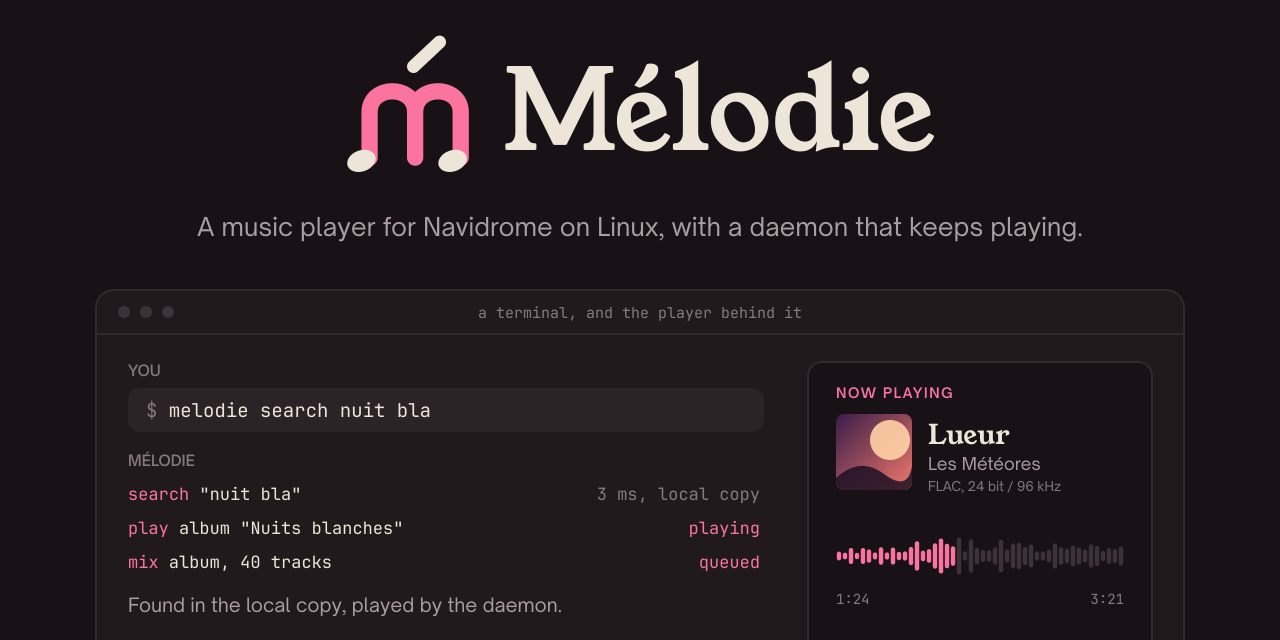
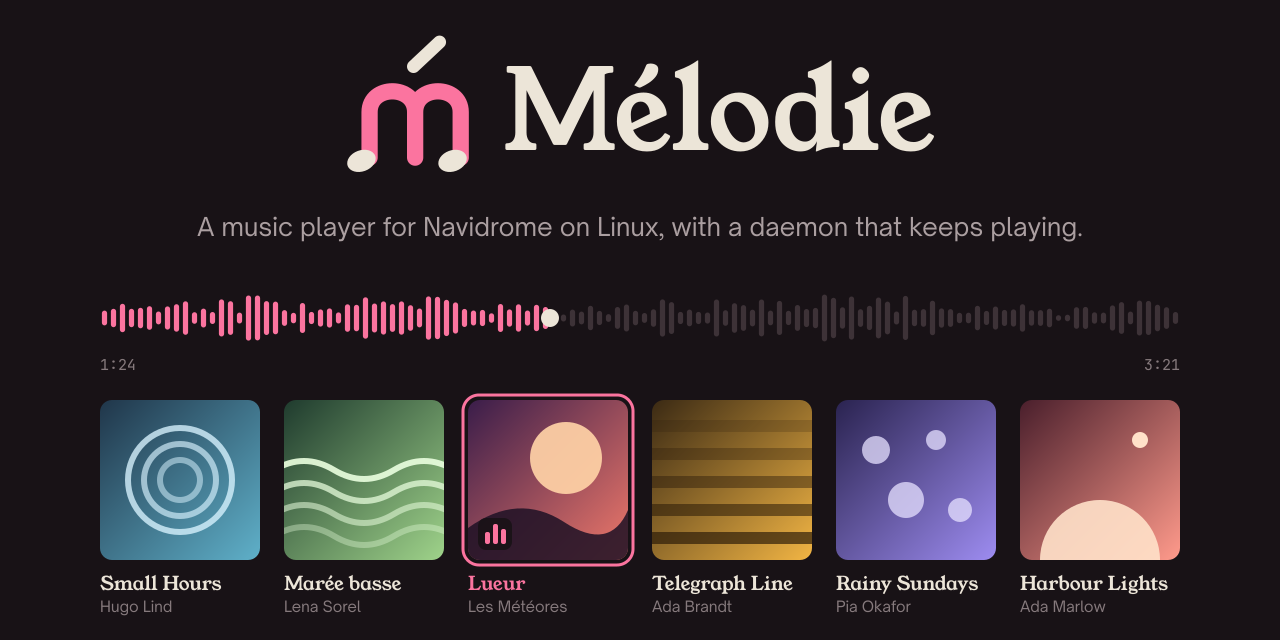
feat(repo): draw the social preview as a waveform over a shelf of albums

diff --git a/assets/brand/README.md b/assets/brand/README.md
@@ -9,7 +9,7 @@ SVGs of this folder are the one source of the drawing; every other file is gener
 | `mark.svg` | the mark alone, for a dark background (the default) |
 | `mark-on-light.svg` | the mark alone, for a light background |
 | `icon.svg` | the icon: the mark on a dark rounded square; the desktop entry's icon (`dist/melodie.svg`) |
-| `social-preview.svg` | the social preview of the repository and the banner of the README: the mark, the name, the tagline, and a search typed in a terminal beside the card of the track playing, drawn (no capture, invented data) |
+| `social-preview.svg` | the social preview of the repository and the banner of the README: the mark, the name, the tagline, and the waveform of the track playing above a shelf of albums, drawn (no capture, invented albums) |
 
 The colours: pink `#fb749f` on dark (`#c42c63` on light), cream `#ece5d8`, the dark of the icon
 `#14120f`, and the plum black `#181216` of the social preview.

diff --git a/README.md b/README.md
@@ -1,6 +1,6 @@
 <div align="center">
 
-<img src="assets/brand/png/social-preview.png" alt="Mélodie: a search typed in a terminal, found in the local copy and played by the daemon, beside the card of the track playing" width="100%">
+<img src="assets/brand/png/social-preview.png" alt="Mélodie: the waveform of the track playing, above a shelf of invented albums with the one playing marked" width="100%">
 
 [![Latest release](https://img.shields.io/github/v/release/KristenJestin/melodie)](https://github.com/KristenJestin/melodie/releases/latest)
 [![CI of dev](https://github.com/KristenJestin/melodie/actions/workflows/ci.yml/badge.svg?branch=dev)](https://github.com/KristenJestin/melodie/actions/workflows/ci.yml?query=branch%3Adev)
